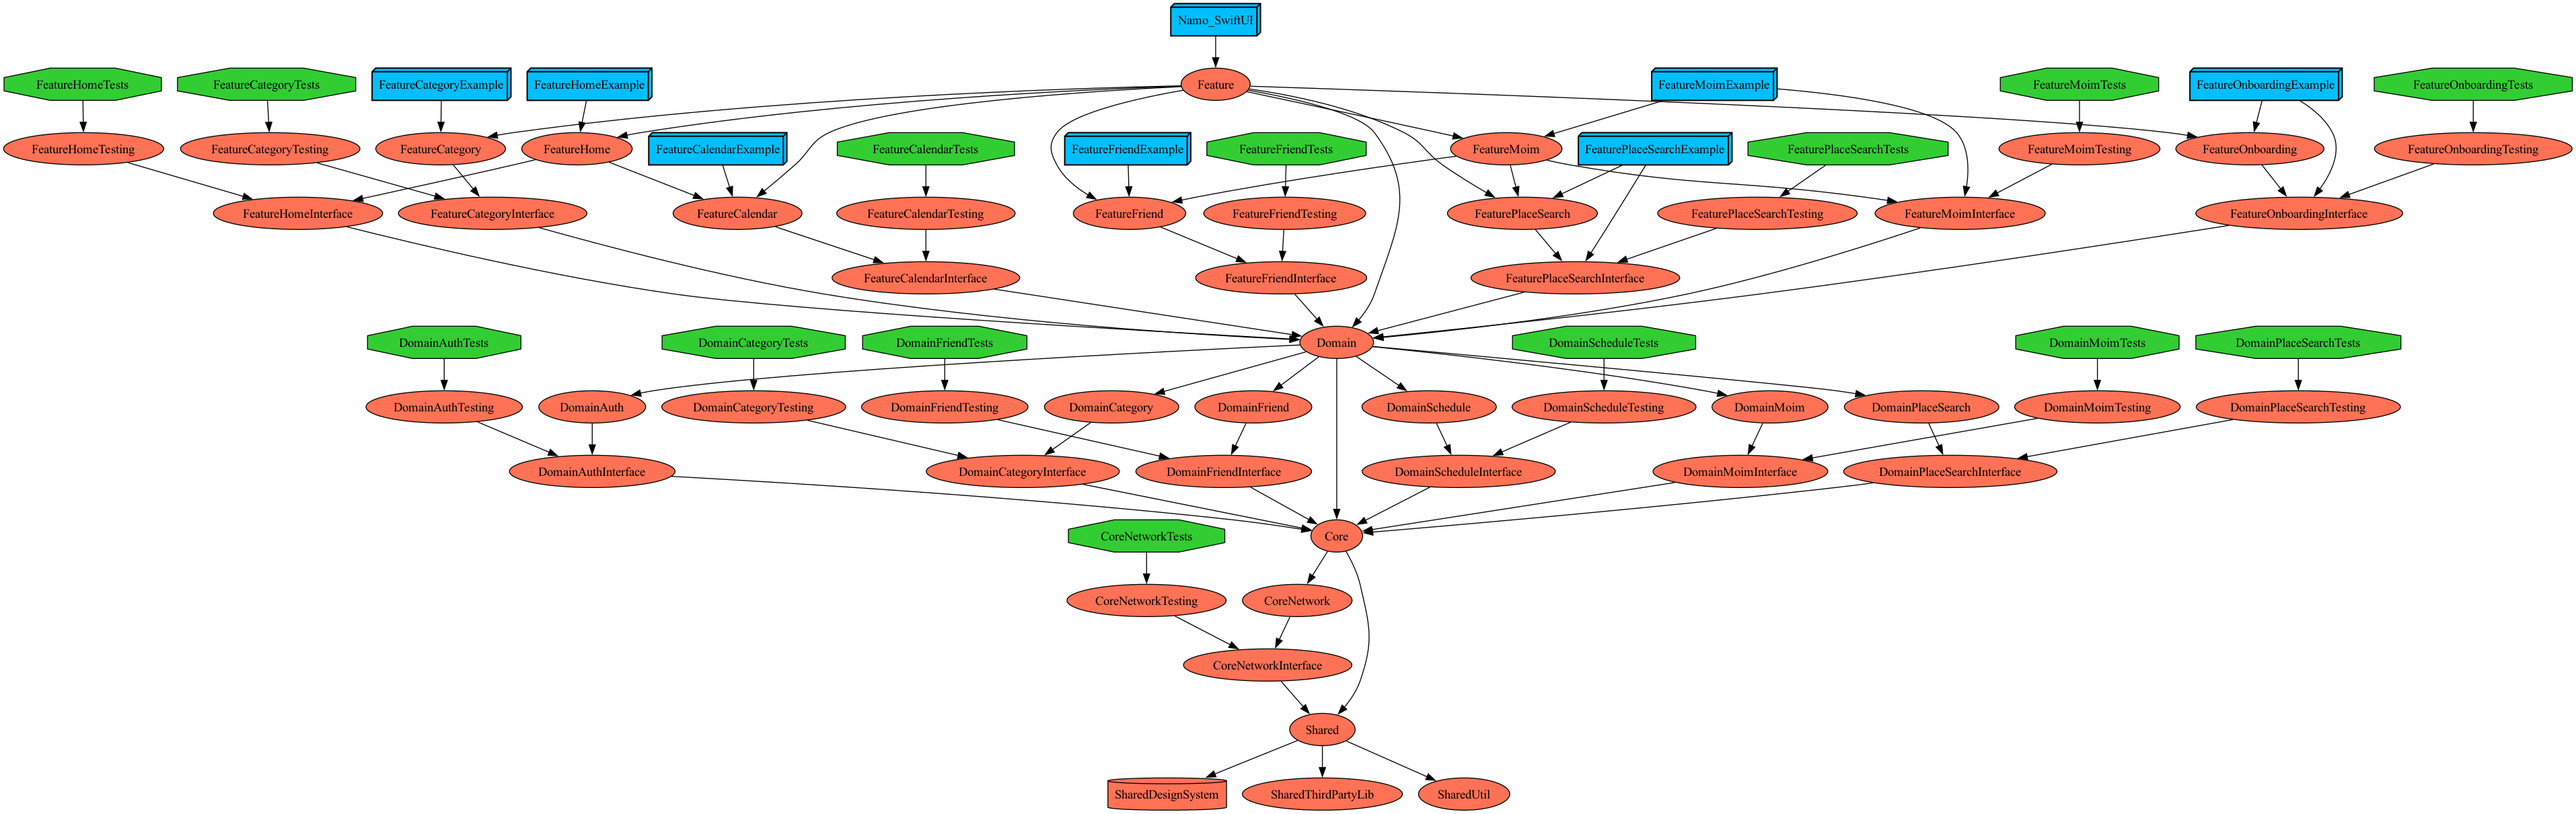
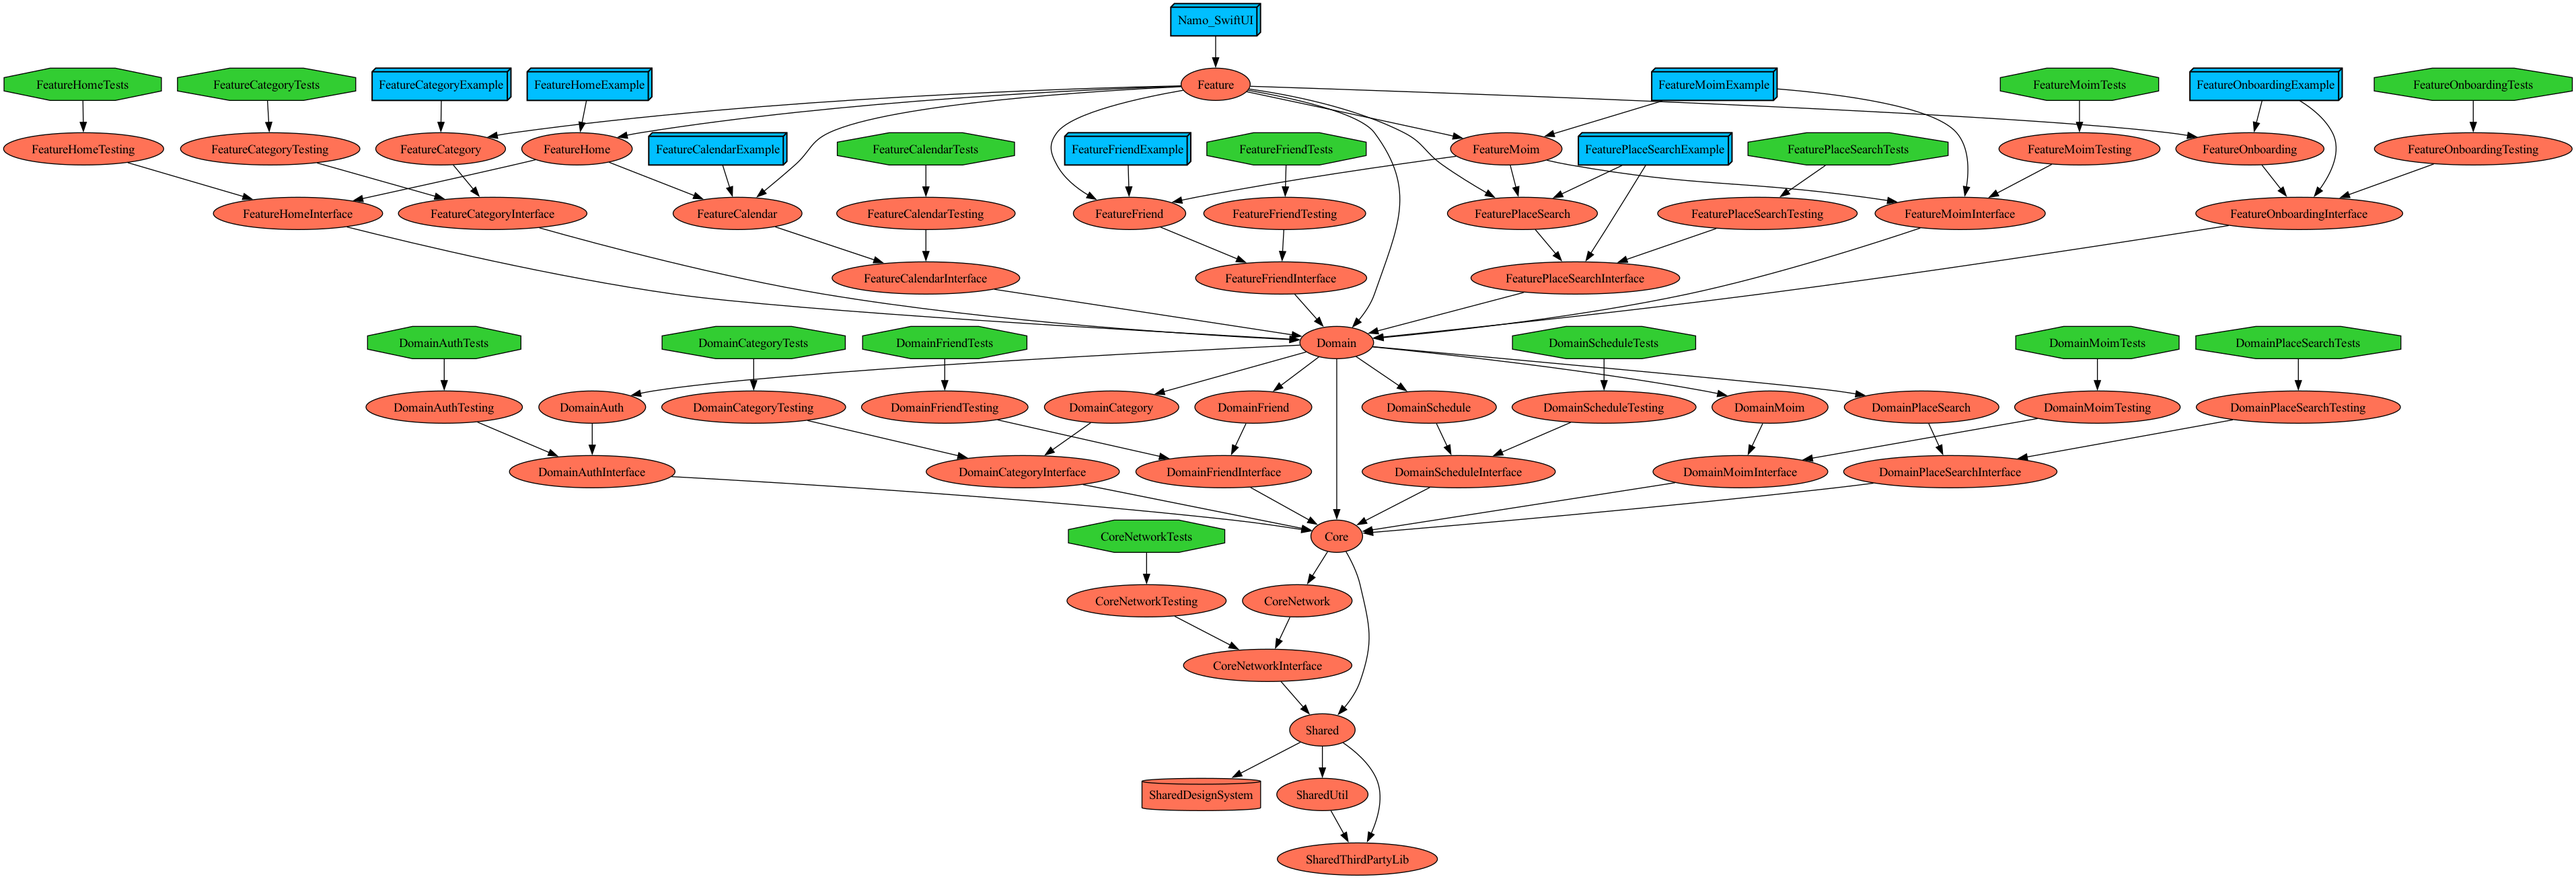
Fix: PopupView, AlertView 배경잘림 현상 수정

Changed region(s): [[0.0, 0.0, 1.0, 1.0]]

diff --git a/Namo_SwiftUI/Projects/Shared/DesignSystem/Sources/Components/Dialog/NamoDialogModifier.swift b/Namo_SwiftUI/Projects/Shared/DesignSystem/Sources/Components/Dialog/NamoDialogModifier.swift
@@ -22,70 +22,70 @@ public struct NamoDialogModifier: ViewModifier {
     
     public func body(content: Content) -> some View {
         content
-            .overlay {
-                if isPresented {
-                    ZStack {
-                        Color.black.opacity(0.5)
-                            .ignoresSafeArea(.all)
+            .fullScreenCover(isPresented: $isPresented, content: {
+                ZStack {
+                    Color.black.opacity(0.2)
+                    
+                        .ignoresSafeArea(.all)
+                    VStack(spacing: 0) {
                         VStack(spacing: 0) {
-                            VStack(spacing: 0) {
-                                Text(title)
-                                    .font(.pretendard(.bold, size: 16))
-                                    .foregroundStyle(Color.mainText)
-                                    .padding(.top, 8)
+                            Text(title)
+                                .font(.pretendard(.bold, size: 16))
+                                .foregroundStyle(Color.mainText)
+                                .padding(.top, 8)
+                            
+                            Text(description)
+                                .font(.pretendard(.regular, size: 14))
+                                .foregroundStyle(Color.mainText)
+                                .padding(.top, 8)
+                            
+                                .multilineTextAlignment(.center)
+                            
+                            // button
+                            HStack(spacing: 8) {
+                                Button(action: {
+                                    isPresented = false
+                                }, label: {
+                                    Text("취소")
+                                        .font(.pretendard(.bold, size: 14))
+                                        .foregroundStyle(Color.mainText)
+                                        .frame(maxWidth: .infinity)
+                                        .frame(height: 41)
+                                })
+                                .frame(maxWidth: .infinity)
+                                .frame(height: 41)
+                                .background(Color.mainGray)
+                                .cornerRadius(4)
                                 
-                                Text(description)
-                                    .font(.pretendard(.regular, size: 14))
-                                    .foregroundStyle(Color.mainText)
-                                    .padding(.top, 8)
-                                    
-                                    .multilineTextAlignment(.center)
-                                
-                                // button
-                                HStack(spacing: 8) {
-                                    Button(action: {
-                                        isPresented = false
-                                    }, label: {
-                                        Text("취소")
-                                            .font(.pretendard(.bold, size: 14))
-                                            .foregroundStyle(Color.mainText)
-                                            .frame(maxWidth: .infinity)
-                                            .frame(height: 41)
-                                    })
-                                    .frame(maxWidth: .infinity)
-                                    .frame(height: 41)
-                                    .background(Color.mainGray)
-                                    .cornerRadius(4)
-                                    
-                                    Button(action: {
-                                        confirmAction?()
-                                        isPresented = false
-                                    }, label: {
-                                        Text("확인")
-                                            .font(.pretendard(.bold, size: 14))
-                                            .foregroundStyle(Color.white)
-                                            .frame(maxWidth: .infinity)
-                                            .frame(height: 41)
-                                    })
-                                    .background(Color.mainOrange)
-                                    .cornerRadius(4)
-                                }
-                                .padding(.top, 20)
+                                Button(action: {
+                                    confirmAction?()
+                                    isPresented = false
+                                }, label: {
+                                    Text("확인")
+                                        .font(.pretendard(.bold, size: 14))
+                                        .foregroundStyle(Color.white)
+                                        .frame(maxWidth: .infinity)
+                                        .frame(height: 41)
+                                })
+                                .background(Color.mainOrange)
+                                .cornerRadius(4)
                             }
-                            .padding(.horizontal, 20)
-                            .padding(.vertical, 16)
+                            .padding(.top, 20)
                         }
-                        .frame(maxWidth: .infinity)
-                        .background(.white)
-                        .cornerRadius(8)
-                        .shadow(color: .black.opacity(0.25), radius: 5, x: 0, y: 0)
-                        .padding(.horizontal, 40)
+                        .padding(.horizontal, 20)
+                        .padding(.vertical, 16)
                     }
-                    .frame(
-                        width: UIScreen.main.bounds.width,
-                        height: UIScreen.main.bounds.height
-                    )
+                    .frame(maxWidth: .infinity)
+                    .background(.white)
+                    .cornerRadius(8)
+                    .shadow(color: .black.opacity(0.25), radius: 5, x: 0, y: 0)
+                    .padding(.horizontal, 40)
+                    
                 }
+                .background(ClearBackground())
+            })
+            .transaction { transaction in
+                transaction.disablesAnimations = true
             }
     }
 }

diff --git a/Namo_SwiftUI/Projects/Shared/DesignSystem/Sources/Components/Popup/NamoPopupView.swift b/Namo_SwiftUI/Projects/Shared/DesignSystem/Sources/Components/Popup/NamoPopupView.swift
@@ -26,67 +26,66 @@ public struct NamoPopupModifier<CotentView: View>: ViewModifier {
     
     public func body(content: Content) -> some View {
         content
-            .overlay {
-                if isPresented {
-                    ZStack {
-                        Color.black.opacity(0.5)
-                            .ignoresSafeArea(.all)
-							.onTapGesture {
-								isPresented = false
-							}
-                        
-                        
+            .fullScreenCover(isPresented: $isPresented, content: {
+                ZStack {
+                    Color.black.opacity(0.2)
+                    
+                        .ignoresSafeArea(.all)
+                        .onTapGesture {
+                            isPresented = false
+                        }
+                    
+                    
+                    VStack(spacing: 0) {
                         VStack(spacing: 0) {
-                            VStack(spacing: 0) {
-                                HStack {
+                            HStack {
+                                Button(action: {
+                                    isPresented = false
+                                }, label: {
+                                    Text("닫기")
+                                        .font(.pretendard(.regular, size: 15))
+                                        .foregroundStyle(Color.mainText)
+                                })
+                                
+                                Spacer()
+                                
+                                Text(title)
+                                    .font(.pretendard(.bold, size: 15))
+                                    .foregroundStyle(Color.black)
+                                
+                                Spacer()
+                                
+                                if let confirmAction = confirmAction {
                                     Button(action: {
-                                        isPresented = false
+                                        confirmAction()
                                     }, label: {
-                                        Text("닫기")
+                                        Text("완료")
                                             .font(.pretendard(.regular, size: 15))
                                             .foregroundStyle(Color.mainText)
                                     })
-                                    
-                                    Spacer()
-                                    
-                                    Text(title)
-                                        .font(.pretendard(.bold, size: 15))
-                                        .foregroundStyle(Color.black)
-                                    
-                                    Spacer()
-                                    
-                                    if let confirmAction = confirmAction {
-                                        Button(action: {
-                                            confirmAction()
-                                        }, label: {
-                                            Text("완료")
-                                                .font(.pretendard(.regular, size: 15))
-                                                .foregroundStyle(Color.mainText)
-                                        })
-                                    } else {
-                                        Text("닫기")
-                                            .font(.pretendard(.regular, size: 15))
-                                            .foregroundStyle(Color.mainText)
-                                            .opacity(0)
-                                    }
+                                } else {
+                                    Text("닫기")
+                                        .font(.pretendard(.regular, size: 15))
+                                        .foregroundStyle(Color.mainText)
+                                        .opacity(0)
                                 }
-								.padding(.horizontal, 20)
-                                
-                                contentView()
                             }
-                            .padding(.top, 16)
+                            .padding(.horizontal, 20)
+                            
+                            contentView()
                         }
-                        .frame(maxWidth: .infinity)
-                        .background(.white)
-                        .cornerRadius(10)
-                        .shadow(color: .black.opacity(0.25), radius: 5, x: 0, y: 0)
-                        .padding(.horizontal, 30)
+                        .padding(.top, 16)
                     }
-                    .frame(
-                        width: UIScreen.main.bounds.width,
-                        height: UIScreen.main.bounds.height
-                    )
-                }                    
+                    .frame(maxWidth: .infinity)
+                    .background(.white)
+                    .cornerRadius(10)
+                    .shadow(color: .black.opacity(0.25), radius: 5, x: 0, y: 0)
+                    .padding(.horizontal, 30)
+                }
+                .background(ClearBackground())
+            })
+            .transaction { transaction in
+                transaction.disablesAnimations = true
             }
     }
 }

diff --git a/Namo_SwiftUI/Projects/Feature/Moim/Sources/Core/MoimCoordinatorView.swift b/Namo_SwiftUI/Projects/Feature/Moim/Sources/Core/MoimCoordinatorView.swift
@@ -24,9 +24,6 @@ public struct MoimCoordinatorView: View {
                 MainView(store: store)
             case let .moimRequest(store):
                 MoimRequestView(store: store)
-            case let  .kakaoMap(store):
-                PlaceSearchView(store: store)
-                    .toolbar(.hidden, for: .navigationBar)
             }
         }
     }

diff --git a/Namo_SwiftUI/Projects/Feature/Moim/Sources/MoimList/MoimListView.swift b/Namo_SwiftUI/Projects/Feature/Moim/Sources/MoimList/MoimListView.swift
@@ -42,5 +42,9 @@ struct MoimListView: View {
                 store.send(.viewOnAppear)
             }
         }
+//        .namoAlertView(isPresented: .constant(true), title: "테스트", content: "테스트 입니다.")
+//        .namoPopupView(isPresented: .constant(true), title: "테스트", content: {
+//            Text("테스트뷰")
+//        })
     }
 }

diff --git a/Namo_SwiftUI/Projects/Shared/Util/Sources/Utils/LocationManager.swift b/Namo_SwiftUI/Projects/Shared/Util/Sources/Utils/LocationManager.swift
@@ -8,7 +8,8 @@
 import CoreLocation
 import Combine
 import UIKit
-import Dependencies
+//import Dependencies
+import ComposableArchitecture
 
 public protocol LocationManagerProtocol {
     /// 위치 권한 요청

diff --git a/Namo_SwiftUI/Projects/Shared/Util/Project.swift b/Namo_SwiftUI/Projects/Shared/Util/Project.swift
@@ -14,7 +14,7 @@ let targets: [Target] = [
 		implements: .Util,
 		factory: .init(
 			dependencies: [
-				.SPM.FirebaseRemoteConfig,
+                .shared(implements: .ThirdPartyLib)
 			]
 		)
 	)

diff --git a/Namo_SwiftUI/Projects/Shared/Sources/SharedExport.swift b/Namo_SwiftUI/Projects/Shared/Sources/SharedExport.swift
@@ -8,3 +8,4 @@
 @_exported import SharedDesignSystem
 @_exported import SharedThirdPartyLib
 @_exported import SharedUtil
+
